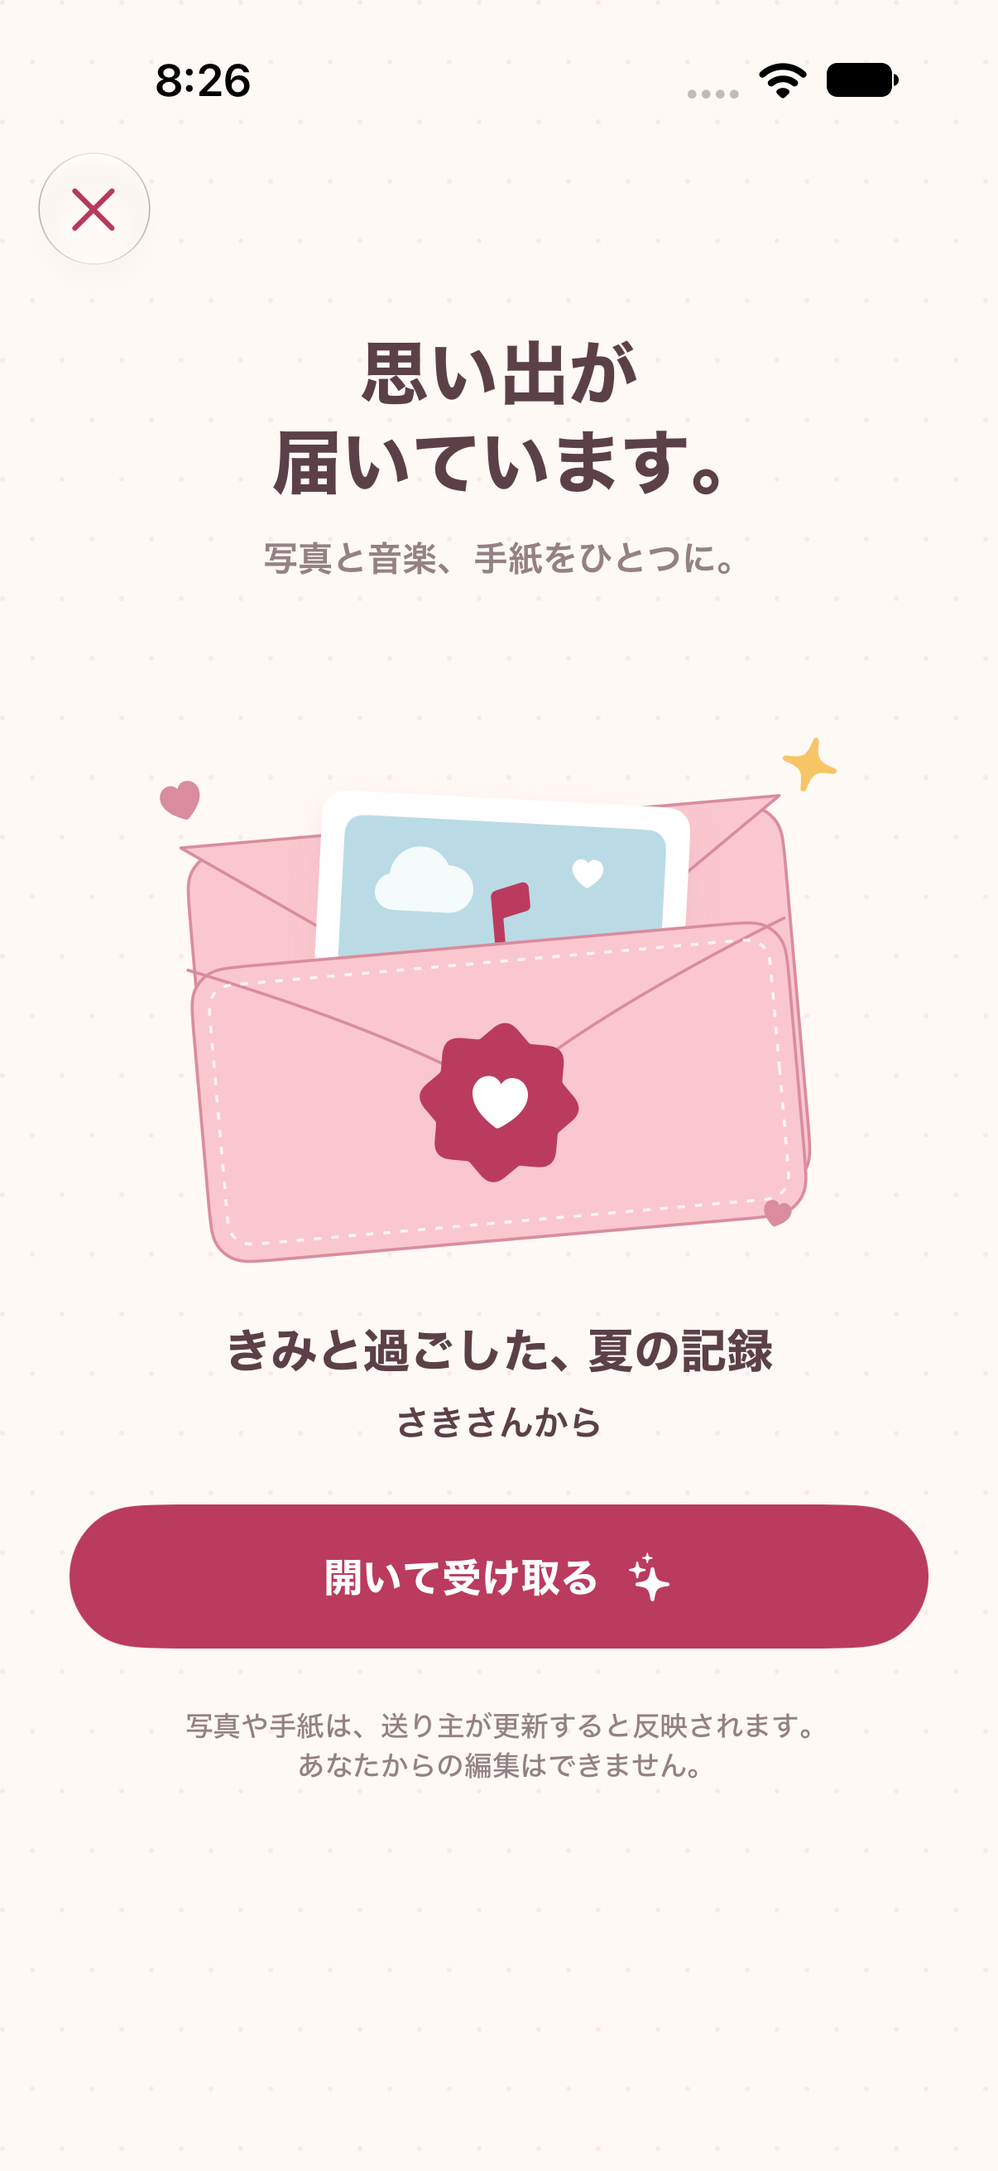
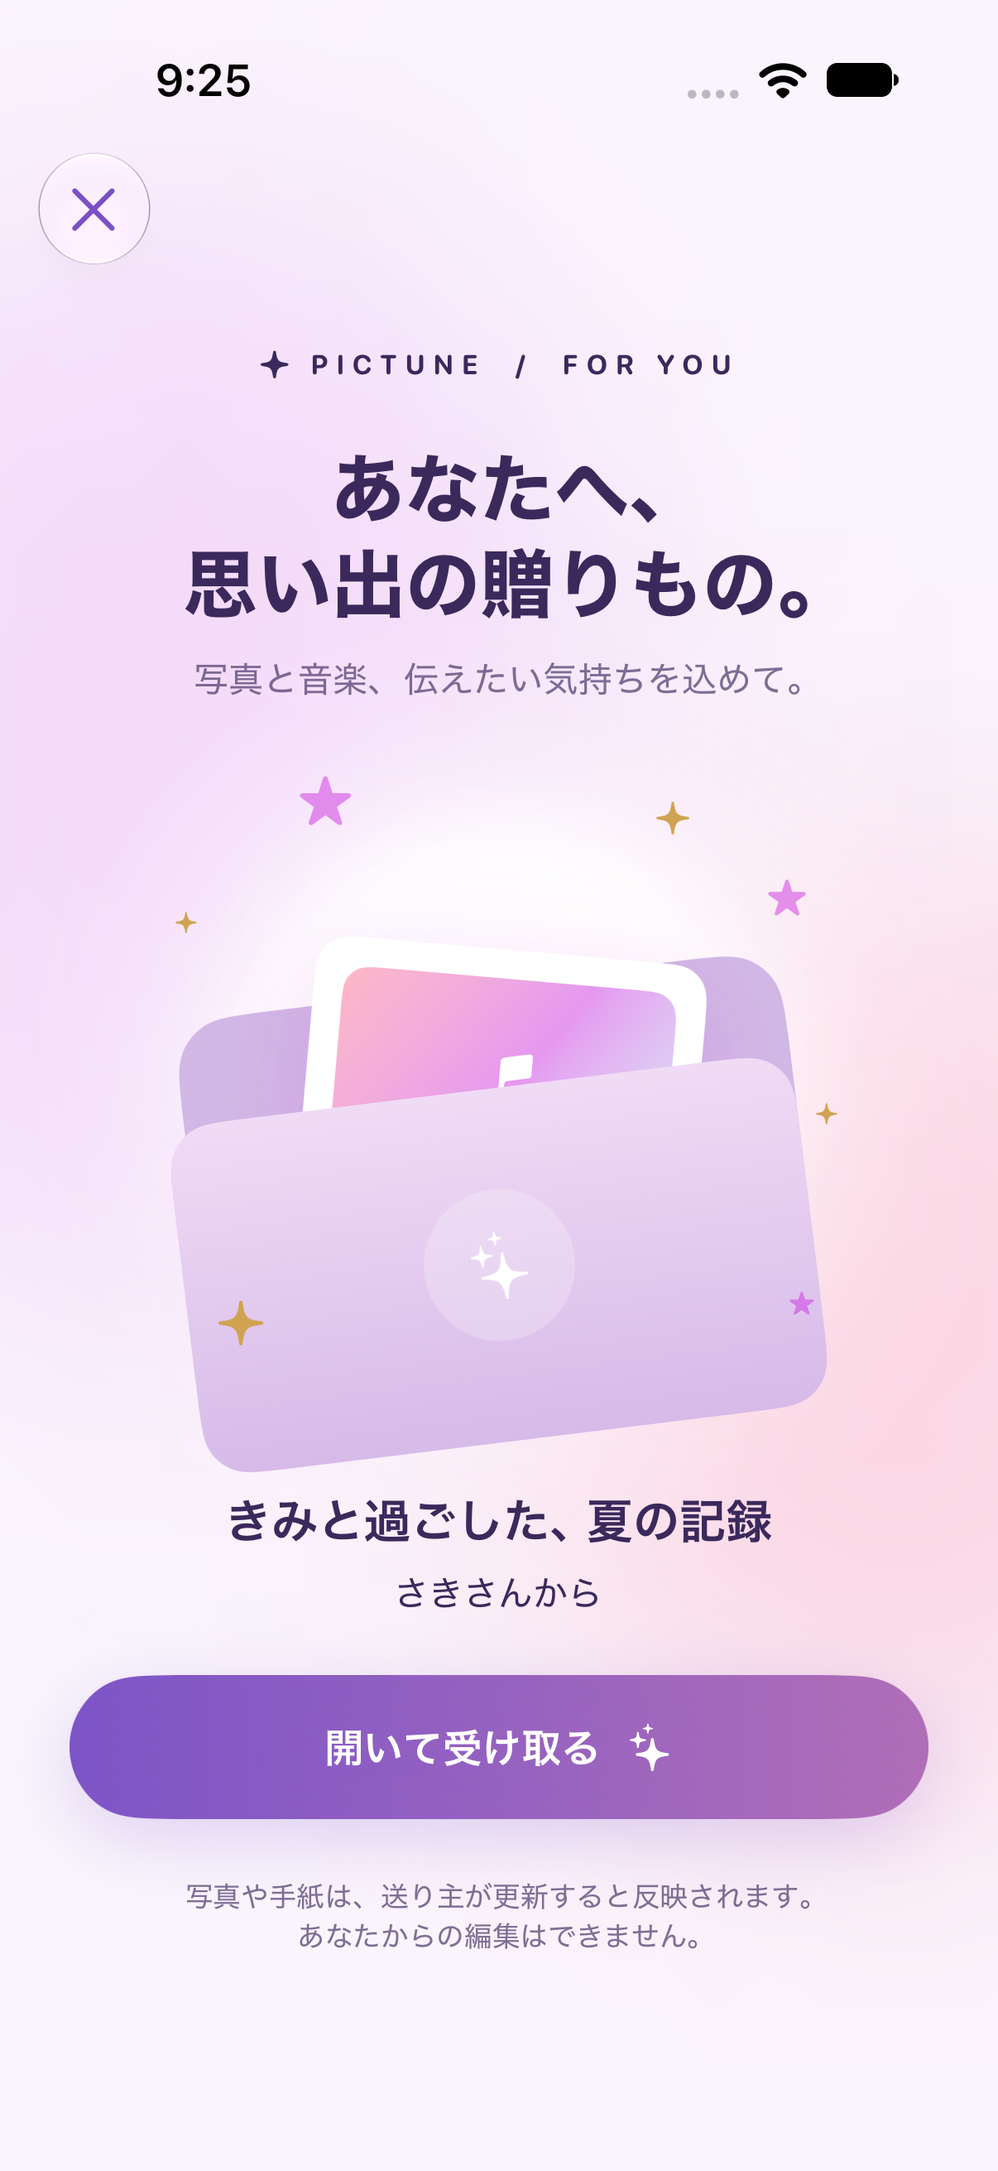
最初の封筒デザインに戻し太字の見出しを維持

diff --git a/sotsugyo/View/FolderInvitationView.swift b/sotsugyo/View/FolderInvitationView.swift
@@ -1,13 +1,8 @@
 import SwiftUI
 
 private enum GiftPalette {
-    static let ink = Color(red: 0.36, green: 0.25, blue: 0.28)
-    static let paper = Color(red: 1, green: 0.975, blue: 0.96)
-    static let pink = Color(red: 0.98, green: 0.78, blue: 0.81)
-    static let seam = Color(red: 0.85, green: 0.55, blue: 0.62)
-    static let rose = Color(red: 0.73, green: 0.23, blue: 0.37)
-    static let yellow = Color(red: 0.97, green: 0.77, blue: 0.40)
-    static let blue = Color(red: 0.73, green: 0.86, blue: 0.90)
+    static let ink = Color(red: 0.23, green: 0.16, blue: 0.36)
+    static let purple = Color(red: 0.49, green: 0.33, blue: 0.78)
 }
 
 struct FolderInvitationView: View {
@@ -29,28 +24,29 @@ struct FolderInvitationView: View {
                 GiftBackdrop()
                 ScrollView {
                     VStack(spacing: 24) {
-                        VStack(spacing: 12) {
-                            Text(opened ? "思い出が、\n届きました。" : "思い出が\n届いています。")
-                                .font(.system(size: 30, weight: .heavy, design: .rounded))
+                        Label("PICTUNE  /  FOR YOU", systemImage: "sparkle")
+                            .font(.system(size: 11, weight: .bold, design: .rounded)).tracking(3)
+                            .padding(.top, 24)
+                        VStack(spacing: 10) {
+                            Text(opened ? "思い出が、\n届きました。" : "あなたへ、\n思い出の贈りもの。")
+                                .font(.system(size: 32, weight: .heavy, design: .rounded))
                                 .multilineTextAlignment(.center)
                                 .accessibilityIdentifier("invite.heading")
-                            Text(opened ? "写真も、音楽も、手紙も。" : "写真と音楽、手紙をひとつに。")
-                                .font(.subheadline.weight(.semibold)).foregroundStyle(GiftPalette.ink.opacity(0.65))
+                            Text(opened ? "これから増える思い出も、一緒に。" : "写真と音楽、伝えたい気持ちを込めて。")
+                                .font(.subheadline).foregroundStyle(GiftPalette.ink.opacity(0.65))
                         }
-                        .frame(maxWidth: .infinity)
-                        .padding(.top, 16)
                         GiftEnvelope(opened: opened, reduceMotion: reduceMotion)
-                            .frame(height: 250)
+                            .frame(height: 270)
                         if let invitation = model.invitation {
                             VStack(spacing: 8) {
-                                Text(invitation.folder.title).font(.system(.title3, design: .rounded, weight: .heavy)).multilineTextAlignment(.center)
-                                Text("\(invitation.senderName)さんから").font(.subheadline.weight(.semibold))
+                                Text(invitation.folder.title).font(.title3.bold()).multilineTextAlignment(.center)
+                                Text("\(invitation.senderName)さんから").font(.subheadline)
                             }
                             .padding(.horizontal)
                         }
                         controls
                         Text("写真や手紙は、送り主が更新すると反映されます。\nあなたからの編集はできません。")
-                            .font(.caption.weight(.medium)).foregroundStyle(GiftPalette.ink.opacity(0.65))
+                            .font(.caption).foregroundStyle(GiftPalette.ink.opacity(0.65))
                             .multilineTextAlignment(.center)
                     }
                     .padding(.horizontal, 28).padding(.bottom, 32)
@@ -78,13 +74,13 @@ struct FolderInvitationView: View {
             .sensoryFeedback(.success, trigger: opened)
             .interactiveDismissDisabled(model.isWorking && model.invitation != nil)
         }
-        .tint(GiftPalette.rose)
+        .tint(GiftPalette.purple)
     }
 
     @ViewBuilder private var controls: some View {
         if let error = model.error {
             VStack(spacing: 12) {
-                Text(error).font(.subheadline.weight(.medium)).multilineTextAlignment(.center).accessibilityIdentifier("invite.error")
+                Text(error).font(.subheadline).multilineTextAlignment(.center).accessibilityIdentifier("invite.error")
                 Button("もう一度試す") { Task { if model.invitation == nil { await model.load(link) } else { await model.receive() } } }
             }
         } else if model.invitation == nil {
@@ -98,9 +94,10 @@ struct FolderInvitationView: View {
                     Text(model.isWorking ? "受け取り中…" : opened ? "思い出を見る" : "開いて受け取る")
                     if !model.isWorking { Image(systemName: opened ? "arrow.right" : "sparkles") }
                 }
-                .font(.system(.headline, design: .rounded, weight: .heavy)).frame(maxWidth: .infinity, minHeight: 58)
+                .font(.headline).frame(maxWidth: .infinity, minHeight: 58)
                 .foregroundStyle(.white)
-                .background(GiftPalette.rose, in: Capsule())
+                .background(LinearGradient(colors: [GiftPalette.purple, Color(red: 0.69, green: 0.43, blue: 0.72)], startPoint: .leading, endPoint: .trailing), in: Capsule())
+                .shadow(color: GiftPalette.purple.opacity(0.23), radius: 15, y: 8)
             }
             .buttonStyle(.plain).disabled(model.isWorking)
             .accessibilityIdentifier("invite.open")
@@ -124,20 +121,19 @@ struct FolderInviteShareView: View {
                 GiftBackdrop()
                 ScrollView {
                     VStack(spacing: 24) {
-                        Text("思い出を\nおすそわけ。")
-                            .multilineTextAlignment(.center)
-                            .font(.system(size: 30, weight: .heavy, design: .rounded))
-                            .frame(maxWidth: .infinity)
-                            .padding(.top, 12)
-                        GiftEnvelope(opened: false, reduceMotion: true).scaleEffect(0.88).frame(height: 210)
-                        Text(folderName).font(.system(.title3, design: .rounded, weight: .heavy))
+                        Label("PICTUNE  /  WITH LOVE", systemImage: "sparkle")
+                            .font(.system(size: 11, weight: .bold)).tracking(3).padding(.top, 30)
+                        Text("離れていても、\n思い出は一緒に。")
+                            .font(.system(size: 32, weight: .heavy, design: .rounded)).multilineTextAlignment(.center)
+                        GiftEnvelope(opened: false, reduceMotion: true).scaleEffect(0.88).frame(height: 240)
+                        Text(folderName).font(.title3.bold())
                         Text("リンクを送って、写真・音楽・手紙を共有できます。\n受け取った後の変更も、相手に届きます。")
-                            .font(.subheadline.weight(.medium)).multilineTextAlignment(.center)
+                            .font(.subheadline).multilineTextAlignment(.center)
                         if model.isWorking { ProgressView("リンクを準備しています…") }
                         else if let invitation = model.invitation, !model.isRevoked {
                             ShareLink(item: invitation.link.url, subject: Text("\(folderName)への招待"), message: Text("PicTuneで思い出を共有しましょう。")) {
                                 Label("招待リンクを送る", systemImage: "square.and.arrow.up").foregroundStyle(.white)
-                                    .font(.system(.headline, design: .rounded, weight: .heavy)).frame(maxWidth: .infinity, minHeight: 54)
+                                    .font(.headline).frame(maxWidth: .infinity, minHeight: 54)
                             }
                             .buttonStyle(.borderedProminent).buttonBorderShape(.capsule)
                             .accessibilityIdentifier("invite.share")
@@ -148,13 +144,13 @@ struct FolderInviteShareView: View {
                         } else {
                             if model.isRevoked { Text("リンクを無効にしました。") }
                             Button(model.isRevoked ? "新しい招待リンクを作る" : "招待リンクを作る") { Task { await model.create(folderID: folderID) } }
-                                .font(.headline.weight(.heavy)).buttonStyle(.borderedProminent).buttonBorderShape(.capsule).controlSize(.large)
+                                .buttonStyle(.borderedProminent).controlSize(.large)
                         }
                         if let error = model.error { Text(error).font(.footnote).foregroundStyle(.red) }
                     }.padding(28).frame(maxWidth: 540).frame(maxWidth: .infinity)
                 }
             }
-            .foregroundStyle(GiftPalette.ink).tint(GiftPalette.rose)
+            .foregroundStyle(GiftPalette.ink).tint(GiftPalette.purple)
             .navigationTitle("思い出を贈る").navigationBarTitleDisplayMode(.inline)
             .toolbar { ToolbarItem(placement: .cancellationAction) { Button("閉じる") { dismiss() }.disabled(model.isWorking) } }
             .confirmationDialog("招待リンクを無効にしますか？", isPresented: $confirmRevoke, titleVisibility: .visible) {
@@ -167,16 +163,11 @@ struct FolderInviteShareView: View {
 
 private struct GiftBackdrop: View {
     var body: some View {
-        GiftPalette.paper.overlay {
-            Canvas { context, size in
-                for row in 0...Int(size.height / 24) {
-                    for column in 0...Int(size.width / 24) {
-                        let x = CGFloat(column) * 24 + (row.isMultiple(of: 2) ? 0 : 12)
-                        let dot = CGRect(x: x, y: CGFloat(row) * 24, width: 2, height: 2)
-                        context.fill(Path(ellipseIn: dot), with: .color(GiftPalette.seam.opacity(0.14)))
-                    }
-                }
-            }.accessibilityHidden(true)
+        ZStack {
+            Color(red: 0.98, green: 0.96, blue: 0.99)
+            Ellipse().fill(Color.purple.opacity(0.13)).frame(width: 360, height: 460).blur(radius: 60).offset(x: -130, y: -130)
+            Ellipse().fill(Color.pink.opacity(0.16)).frame(width: 300, height: 380).blur(radius: 70).offset(x: 160, y: 100)
+            Circle().fill(Color.white.opacity(0.8)).frame(width: 260).blur(radius: 40)
         }.ignoresSafeArea()
     }
 }
@@ -186,90 +177,38 @@ private struct GiftEnvelope: View {
     let reduceMotion: Bool
     var body: some View {
         ZStack {
-            RoundedRectangle(cornerRadius: 16)
-                .fill(GiftPalette.pink)
-                .overlay { RoundedRectangle(cornerRadius: 16).strokeBorder(GiftPalette.seam, lineWidth: 1.2) }
-                .frame(width: 242, height: 156)
-                .rotationEffect(.degrees(-5)).offset(y: 28)
-            EnvelopeFlap()
-                .fill(GiftPalette.pink)
-                .overlay { EnvelopeFlap().stroke(GiftPalette.seam, style: StrokeStyle(lineWidth: 1.2, lineJoin: .round)) }
-                .frame(width: 242, height: 84)
-                .rotation3DEffect(.degrees(opened ? 180 : 0), axis: (x: 1, y: 0, z: 0), anchor: .top)
-                .rotationEffect(.degrees(-5)).offset(x: -4, y: -10)
-            VStack(spacing: 10) {
+            Circle().fill(.white.opacity(0.8)).frame(width: 220, height: 220).blur(radius: 12).scaleEffect(opened ? 1.4 : 1)
+            RoundedRectangle(cornerRadius: 24).fill(Color(red: 0.82, green: 0.72, blue: 0.9))
+                .frame(width: 246, height: 162).rotationEffect(.degrees(-7)).offset(y: 36)
+            VStack(spacing: 12) {
                 ZStack {
-                    RoundedRectangle(cornerRadius: 8).fill(GiftPalette.blue)
-                    Image(systemName: "cloud.fill")
-                        .font(.system(size: 36)).foregroundStyle(.white.opacity(0.85)).offset(x: -34, y: -22)
-                    Image(systemName: "cloud.fill")
-                        .font(.system(size: 26)).foregroundStyle(.white.opacity(0.85)).offset(x: 39, y: 24)
-                    Image(systemName: "music.note")
-                        .font(.system(size: 42, weight: .heavy)).foregroundStyle(GiftPalette.rose)
-                        .rotationEffect(.degrees(-8))
-                    Image(systemName: "heart.fill")
-                        .font(.system(size: 13, weight: .bold)).foregroundStyle(.white).offset(x: 36, y: -28)
-                }.frame(height: 96)
-                HStack(spacing: 5) {
-                    Image(systemName: "heart.fill").foregroundStyle(GiftPalette.rose)
-                    Text("PicTune").fontWeight(.heavy)
-                }.font(.system(size: 12, weight: .bold, design: .rounded))
+                    RoundedRectangle(cornerRadius: 12).fill(LinearGradient(colors: [.pink.opacity(0.35), .purple.opacity(0.5), .cyan.opacity(0.3)], startPoint: .topLeading, endPoint: .bottomTrailing))
+                    Image(systemName: "music.note").font(.system(size: 44, weight: .light)).foregroundStyle(.white)
+                }.frame(height: 108)
+                Text("OUR LITTLE MEMORIES").font(.system(size: 8, weight: .bold)).tracking(2)
             }
-            .padding(10)
-            .background(.white, in: RoundedRectangle(cornerRadius: 10))
-            .frame(width: 158)
-            .rotationEffect(.degrees(opened ? 7 : 3))
-            .offset(x: opened ? 10 : 0, y: opened ? -52 : 5)
-            .scaleEffect(opened ? 1.08 : 0.94)
-            .shadow(color: GiftPalette.seam.opacity(0.18), radius: 5, x: 0, y: 4)
-            RoundedRectangle(cornerRadius: 16)
-                .fill(GiftPalette.pink)
-                .overlay {
-                    Path { path in
-                        path.move(to: CGPoint(x: 0, y: 0))
-                        path.addQuadCurve(to: CGPoint(x: 121, y: 60), control: CGPoint(x: 76, y: 30))
-                        path.addQuadCurve(to: CGPoint(x: 242, y: 0), control: CGPoint(x: 166, y: 30))
-                    }.stroke(GiftPalette.seam, lineWidth: 1.2)
-                }
-                .overlay { RoundedRectangle(cornerRadius: 16).strokeBorder(GiftPalette.seam, lineWidth: 1.2) }
-                .overlay {
-                    RoundedRectangle(cornerRadius: 10)
-                        .strokeBorder(.white.opacity(0.8), style: StrokeStyle(lineWidth: 1.2, dash: [3, 4]))
-                        .padding(7)
-                }
-                .overlay {
-                    ZStack {
-                        Image(systemName: "seal.fill").font(.system(size: 58)).foregroundStyle(GiftPalette.rose)
-                        Image(systemName: "heart.fill").font(.system(size: 22, weight: .bold)).foregroundStyle(.white)
-                    }
-                    .rotationEffect(.degrees(10))
-                    .scaleEffect(opened ? 1.08 : 1)
-                    .offset(y: 4)
-                }
-                .frame(width: 242, height: 120)
-                .rotationEffect(.degrees(-5)).offset(y: 57)
-            ForEach(0..<3) { index in
-                Image(systemName: index == 1 ? "sparkle" : "heart.fill")
-                    .font(.system(size: CGFloat([16, 22, 11][index]), weight: .bold))
-                    .foregroundStyle(index == 1 ? GiftPalette.yellow : GiftPalette.seam)
-                    .rotationEffect(.degrees(index == 0 ? -18 : 15))
-                    .offset(x: CGFloat([-128, 125, 112][index]), y: CGFloat([-60, -75, 106][index]))
+            .padding(13).background(.white, in: RoundedRectangle(cornerRadius: 16))
+            .frame(width: 176).rotationEffect(.degrees(opened ? -5 : 5))
+            .offset(y: opened ? -48 : 12).scaleEffect(opened ? 1.12 : 0.9)
+            .shadow(color: .purple.opacity(0.18), radius: 20, y: 12)
+            RoundedRectangle(cornerRadius: 20)
+                .fill(LinearGradient(colors: [Color(red: 0.94, green: 0.86, blue: 0.96), Color(red: 0.84, green: 0.73, blue: 0.91)], startPoint: .top, endPoint: .bottom))
+                .frame(width: 254, height: 142).overlay {
+                    Image(systemName: opened ? "heart.fill" : "sparkles")
+                        .font(.system(size: 25, weight: .light)).foregroundStyle(.white)
+                        .padding(17).background(.white.opacity(0.22), in: Circle())
+                }.rotationEffect(.degrees(-7)).offset(y: opened ? 72 : 68)
+                .opacity(opened ? 0.75 : 1)
+            ForEach(0..<7) { index in
+                Image(systemName: index.isMultiple(of: 2) ? "sparkle" : "star.fill")
+                    .font(.system(size: CGFloat(9 + index % 3 * 5)))
+                    .foregroundStyle(index.isMultiple(of: 2) ? Color(red: 0.81, green: 0.64, blue: 0.32) : Color.purple.opacity(0.5))
+                    .offset(x: CGFloat([-126, 116, -104, 122, 70, -70, 132][index]), y: CGFloat([-70, -80, 91, 83, -112, -119, 7][index]))
                     .scaleEffect(opened && !reduceMotion ? 1.4 : 1)
             }
         }
         .accessibilityElement(children: .ignore)
         .accessibilityLabel(opened ? "開いた思い出の封筒" : "思い出を包んだ封筒")
-    }
-}
-
-private struct EnvelopeFlap: Shape {
-    func path(in rect: CGRect) -> Path {
-        Path { path in
-            path.move(to: CGPoint(x: rect.minX, y: rect.minY))
-            path.addLine(to: CGPoint(x: rect.midX, y: rect.maxY))
-            path.addLine(to: CGPoint(x: rect.maxX, y: rect.minY))
-            path.closeSubpath()
-        }
     }
 }
 
@@ -294,7 +233,7 @@ private struct GiftSparkles: View {
                     star.addLine(to: CGPoint(x: point.x, y: point.y + radius * 2))
                     star.addLine(to: CGPoint(x: point.x - radius, y: point.y)); star.closeSubpath()
                     context.opacity = max(0, 1 - elapsed / 2.5)
-                    context.fill(star, with: .color([GiftPalette.pink, GiftPalette.yellow, GiftPalette.rose, GiftPalette.blue][index % 4]))
+                    context.fill(star, with: .color([Color.purple, .pink, Color(red: 0.9, green: 0.7, blue: 0.3), .white][index % 4]))
                 }
             }
         }

diff --git a/docs/verification/invite-links/README.md b/docs/verification/invite-links/README.md
@@ -4,7 +4,7 @@
 
 ## 画面
 
-招待・送信画面は太めの丸みのある文字、ピンクの封筒、ハートのシール、丸いローズ色のボタンに調整しました。淡いドット柄と封筒のステッチで、可愛らしい紙ものの雰囲気にしています。英字の飾り見出し・グラデーションは使わず、開封時のカードの動きと粒子の演出は残しています。
+招待・送信画面は最初の淡い紫の封筒デザインに戻し、見出しだけ太めの丸みのあるゴシック体にしています。封筒からカードが現れ、光とキラキラした粒子が広がる開封演出を表示します。
 
 Xcode 27.2 beta 2 / iPhone 18 Pro / iOS 27.0 の専用シミュレーター「PicTune Model Review」。写真・送り主名は確認用の架空データです。
 
@@ -23,7 +23,8 @@ Xcode 27.2 beta 2 / iPhone 18 Pro / iOS 27.0 の専用シミュレーター「Pi
 - Firestore/Storageエミュレーターのアクセス制御テスト9件成功。匿名拒否、招待一覧取得拒否、不正な参加・画像参照の拒否、同一招待の再参加、手紙・曲の閲覧と編集拒否、期限切れ・無効化・元フォルダ削除、共有画像、QRによる相手への保存（写真未作成の新規ユーザーを含む）、所有者付きの画像アップロードを確認。
 - 最新mainの写真詳細改善を統合後、単体43件と招待作成・開封・写真詳細のUIテスト3件を再実行して成功。
 - 太字・無地背景へのデザイン調整後も、招待作成・無効化、期限切れ、通信失敗、開封と同期のUIテスト4件を再実行して成功。
-- 2026-10-07: ピンクの封筒・ハート・丸いボタンへの調整後、送信・無効化、開封と同期のUIテスト2件が成功。掲載画像は今回の画面です。旧デザインの録画は削除しました。
+- 2026-10-07: ピンクの封筒・ハート・丸いボタンへの調整後、送信・無効化、開封と同期のUIテスト2件が成功。旧デザインの録画は削除しました。
+- 2026-10-07: 最初の淡い紫の封筒デザイン＋太字見出しに戻した後、送信・無効化、開封と同期のUIテスト2件が成功。掲載画像を最終画面へ更新しました。
 - `git diff --check` 成功。
 
 ## 本番への反映
